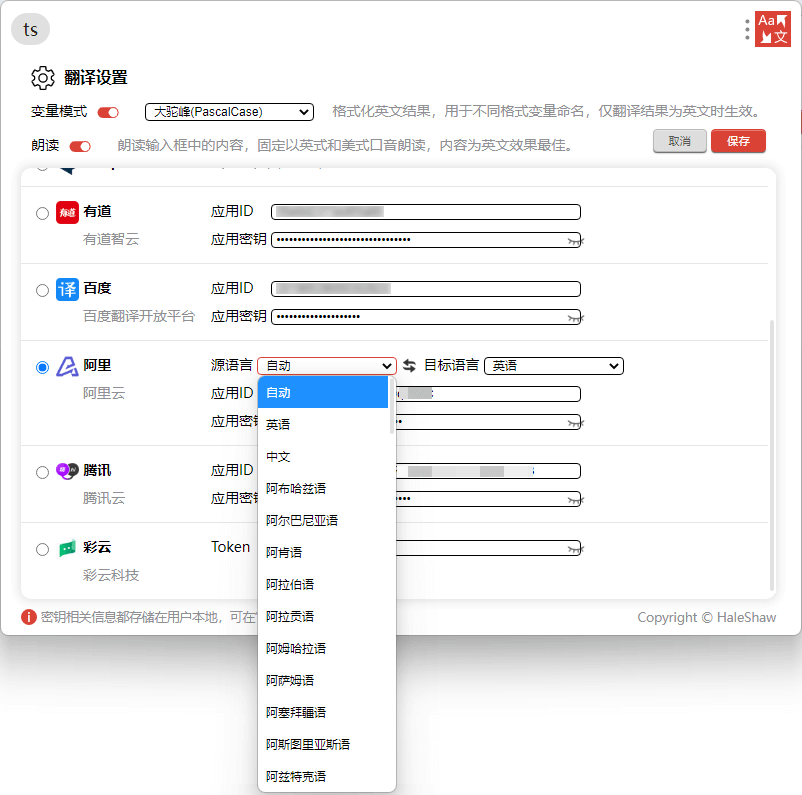
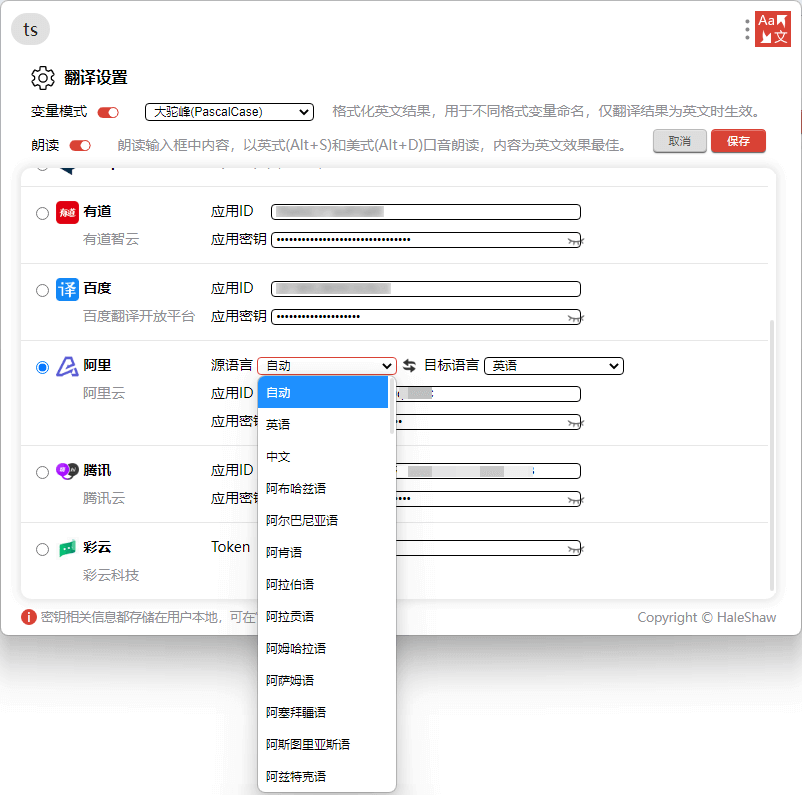
Add shortcut key for reading aloud

Changed region(s): [[0.2494, 0.1509, 0.7793, 0.2113]]

diff --git a/assets/js/index.js b/assets/js/index.js
@@ -98,6 +98,7 @@ async function switchApi(word) {
     $("#root").addClass("hide");
     $("#setting").addClass("hide");
     $("#page").removeClass("hide");
+    bindPhoneticHotkey();
     await lookupYouDaoWap(word);
   } else if (
     option == Object.keys(options)[0] ||
@@ -197,6 +198,19 @@ function bindHotkey() {
   });
   Mousetrap.bind("alt+0", () => {
     copyItemContent(9);
+  });
+  bindPhoneticHotkey();
+}
+
+/**
+ * Bind the hotkey for reading aloud.
+ */
+function bindPhoneticHotkey() {
+  Mousetrap.bind("alt+s", () => {
+    playPhonetic(0);
+  });
+  Mousetrap.bind("alt+d", () => {
+    playPhonetic(1);
   });
 }
 
@@ -389,5 +403,25 @@ function addPhoneticListener() {
     $(phonetics[i]).mouseover(function () {
       phonetics[i].children[0].play();
     });
+  }
+}
+
+/**
+ * Play the phonetic by element index.
+ * While the index is 0, then play the English phonetic.
+ * While the index is 1, then play the American English phonetic.
+ * @param {Number} index The phonetic element index number. 0, 1.
+ */
+function playPhonetic(index) {
+  let phonetics = document.querySelectorAll(".phonetic>audio");
+  let len = phonetics.length;
+  if ((len > 0 && index == 0) || (len == 2 && index == 1)) {
+    phonetics[index].play();
+    return;
+  }
+  let pagePhonetics = document.querySelectorAll(".pageBtn>audio");
+  let pageLen = pagePhonetics.length;
+  if ((pageLen > 0 && index == 0) || (pageLen == 2 && index == 1)) {
+    pagePhonetics[index].play();
   }
 }

diff --git a/index.html b/index.html
@@ -50,7 +50,7 @@
         <a>朗读</a>
         <img />
         <span class="comment">
-          朗读输入框中的内容，固定以英式和美式口音朗读，内容为英文效果最佳。
+          朗读输入框中内容，以英式(Alt+S)和美式(Alt+D)口音朗读，内容为英文效果最佳。
         </span>
         <span class="buttons">
           <button id="btnClose">取消</button>

diff --git a/README.md b/README.md
@@ -59,6 +59,7 @@ uTools 插件 - 翻译
 - 支持单词句子翻译
 - 支持查询音标，朗读
 - 支持句子朗读
+- 支持快捷键朗读（英式：Alt+S，美式：Alt+D）
 - 支持自动复制翻译结果
 - 支持自动翻译剪贴板文本
 - 支持单词变形
